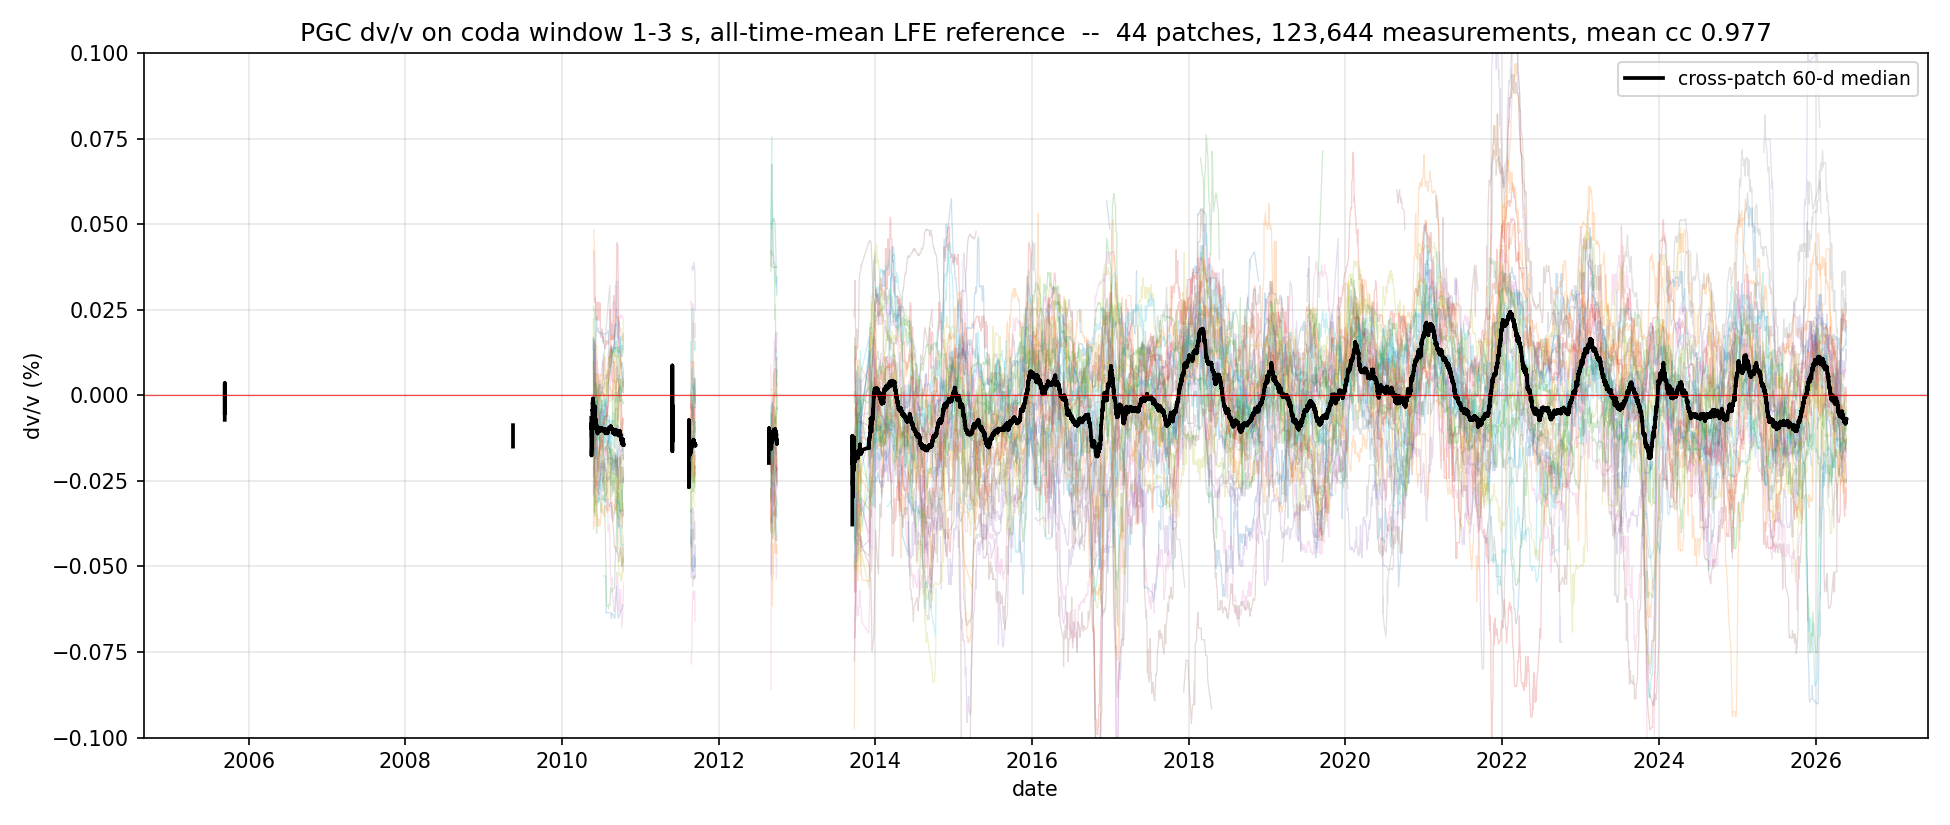
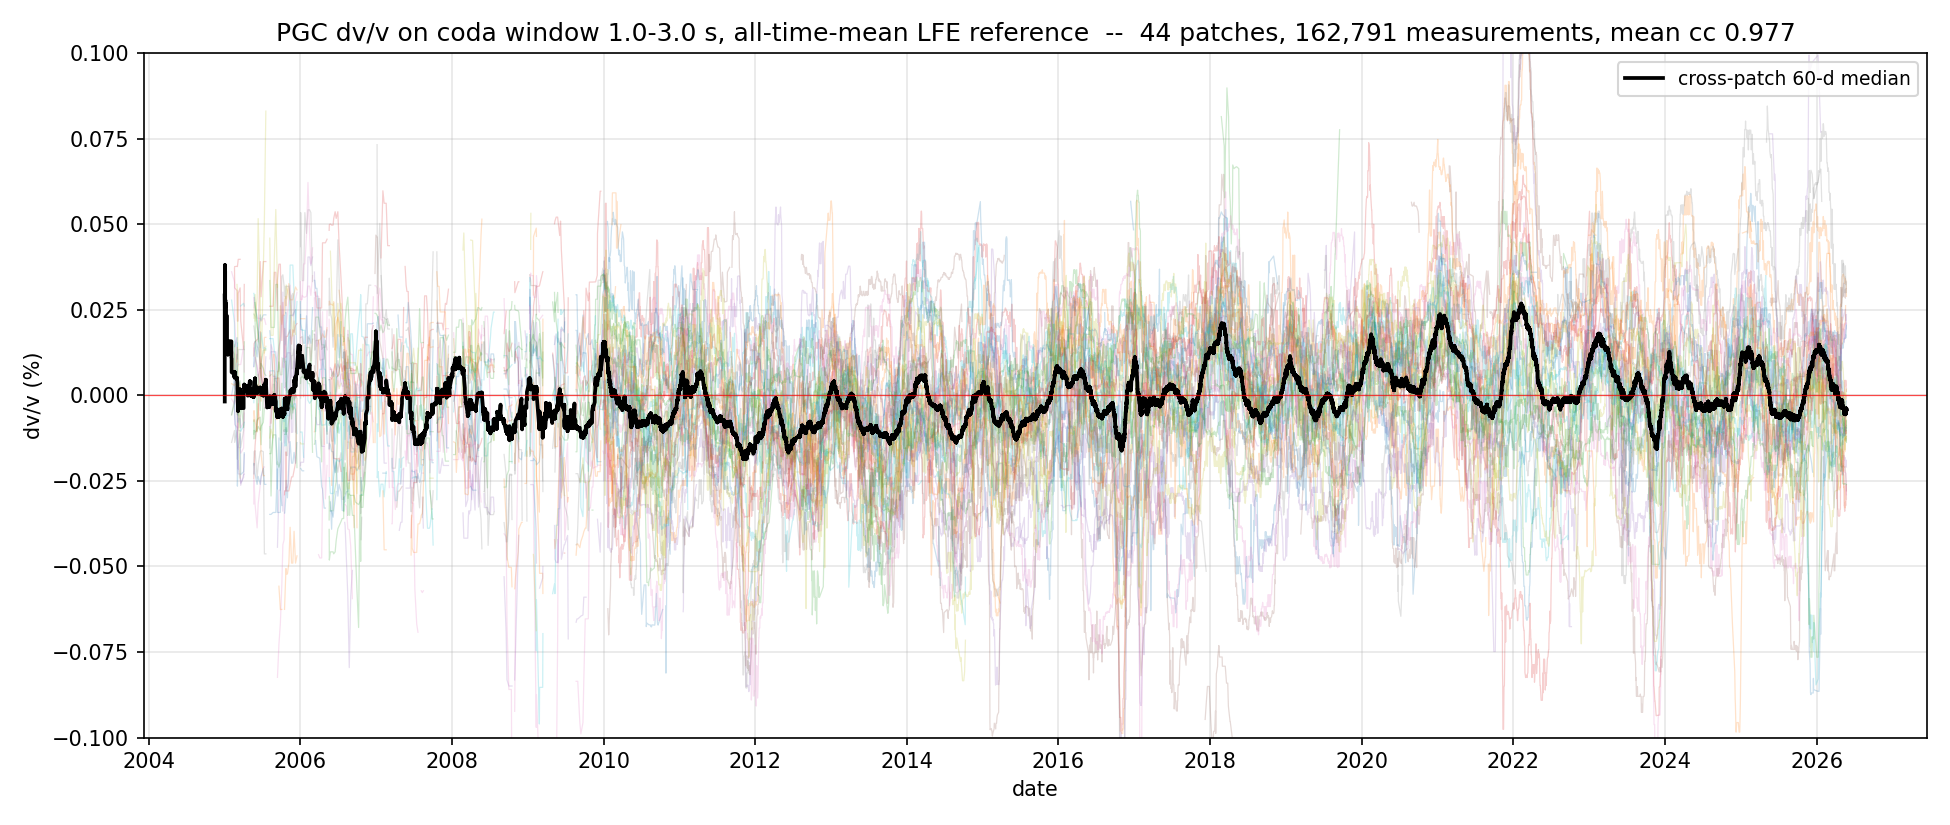
PGC backfill folded into 51-patch coda dv/v product
Re-ran the matched filter on the 1,460 newly-backfilled PGC day-files
(scripts/scan_new_days_all51.py: diff disk-days against existing MF
catalog, run all 51 templates on just the new days, filter to
cc>=0.8). Concatenated to the cc>=0.8 catalog -> 15.76M detections.

Rebuilt long-window daily stacks -> 164,229 (template, day) rows
(+31% over the pre-backfill 125,066). Recomputed coda 1-3 s dv/v with
the all-time-mean LFE reference per family.

Final canonical PGC product:
  162,791 daily dv/v measurements across 49 patches (was 123,644).
  Date range now CONTINUOUS 2005-2026, not gappy pre-2014.
  Mean stretching CC 0.977.
  Median dv/v -0.001%, 5-95%ile -0.088 / +0.079% (symmetric).
  Cross-patch 60-d median oscillates inside +/-0.05% throughout,
  including pre-2010 (noisier due to sparse NRCAN coverage ~60 days/yr).

Bug-fix in scan_new_days_all51.py: patch_templates.npz stores BOTH
PGC_* and LZB_* templates (35 each, for two-station discovery).
The first run loaded all of them, scanning the new PGC waveforms with
LZB templates too -- producing 1.6M spurious "detections" that had to
be filtered out before the rebuild. Script now whitelists templates
that start with the target station name.

diff --git a/scripts/scan_new_days_all51.py b/scripts/scan_new_days_all51.py
@@ -1,0 +1,119 @@
+"""Matched-filter scan of newly-backfilled PGC day-files only.
+
+After the 2005-2013 backfill we have ~1,800 new day-files that have not
+been scanned. Diff the on-disk day-list against the existing detections
+in mf_pgc_all51_cc08.csv, run the multi-template fast matched filter
+across all 51 templates on just the new days, filter to cc in [0.8, 1.1],
+and append.
+"""
+
+from __future__ import annotations
+
+import argparse
+from datetime import datetime, timedelta
+from pathlib import Path
+
+import numpy as np
+import pandas as pd
+
+import sys
+sys.path.insert(0, "src")
+from tremorferometry.matched_filter_fast import scan_many_days_multi  # noqa: E402
+
+
+def parse_args():
+    p = argparse.ArgumentParser()
+    p.add_argument("--wfdir", default="data/waveforms")
+    p.add_argument("--station", default="PGC")
+    p.add_argument("--orig-npz", default="data/patch_templates.npz")
+    p.add_argument("--strict-npz", default="data/strict_new_templates.npz")
+    p.add_argument("--existing-csv", default="data/mf_pgc_all51_cc08.csv")
+    p.add_argument("--out-csv", default="data/mf_pgc_new_days.csv")
+    p.add_argument("--combined-csv", default="data/mf_pgc_all51_cc08.csv")
+    p.add_argument("--threshold", type=float, default=0.7)
+    p.add_argument("--cc-keep-lo", type=float, default=0.8)
+    p.add_argument("--cc-keep-hi", type=float, default=1.1)
+    p.add_argument("--workers", type=int, default=36)
+    return p.parse_args()
+
+
+def main():
+    args = parse_args()
+
+    print("[1/5] Loading templates...")
+    orig = np.load(args.orig_npz, allow_pickle=True)
+    strict = np.load(args.strict_npz, allow_pickle=True)
+    templates: dict[str, np.ndarray] = {}
+    # patch_templates.npz contains BOTH PGC_* and LZB_* templates (35 each, for
+    # two-station discovery). For a PGC scan, only the PGC_* templates are
+    # physically meaningful -- LZB templates against PGC waveforms produce
+    # spurious detections we'd have to filter out downstream.
+    for k in orig.keys():
+        if not str(k).startswith(f"{args.station}_"):
+            continue
+        templates[k] = np.asarray(orig[k], dtype=np.float32)
+    for k in strict.keys():
+        if str(k).startswith("STRICT"):
+            templates[k] = np.asarray(strict[k], dtype=np.float32)
+    print(f"  {len(templates)} templates total ({sum(1 for k in templates if not k.startswith('STRICT'))} {args.station} + "
+          f"{sum(1 for k in templates if k.startswith('STRICT'))} strict)")
+
+    print("[2/5] Enumerating on-disk day-files...")
+    wfdir = Path(args.wfdir) / f"CN.{args.station}"
+    disk_days: set[datetime] = set()
+    for ypath in sorted(wfdir.glob("[0-9]*")):
+        try:
+            year = int(ypath.name)
+        except ValueError:
+            continue
+        for mfile in sorted(ypath.glob("*.mseed")):
+            try:
+                jday = int(mfile.stem)
+            except ValueError:
+                continue
+            disk_days.add(datetime(year, 1, 1) + timedelta(days=jday - 1))
+    print(f"  {len(disk_days)} day-files on disk")
+
+    print("[3/5] Finding days already scanned...")
+    exist = pd.read_csv(args.existing_csv, usecols=["time"])
+    exist["time"] = pd.to_datetime(exist["time"], format="mixed")
+    scanned_days = set(exist["time"].dt.normalize().dt.to_pydatetime())
+    print(f"  {len(scanned_days)} scanned days in existing CSV")
+
+    new_days = sorted(disk_days - scanned_days)
+    print(f"  {len(new_days)} NEW days to scan")
+    if not new_days:
+        print("  nothing to do.")
+        return
+
+    print(f"[4/5] Scanning {len(new_days)} days x {len(templates)} templates "
+          f"(workers={args.workers})...")
+    df = scan_many_days_multi(
+        waveform_root=Path(args.wfdir),
+        station=args.station,
+        days=new_days,
+        templates=templates,
+        fs=40.0,
+        bandpass=(2.0, 8.0),
+        threshold=args.threshold,
+        min_gap_s=6.0,
+        n_workers=args.workers,
+        progress_every=200,
+    )
+    print(f"  {len(df):,} raw detections at cc>={args.threshold}")
+    df.to_csv(args.out_csv, index=False)
+    print(f"  saved raw {args.out_csv}")
+
+    print("[5/5] Filter to cc in [0.8, 1.1] and append to combined CSV...")
+    keep = df[(df["cc"] >= args.cc_keep_lo) & (df["cc"] <= args.cc_keep_hi)]
+    print(f"  keep: {len(keep):,} at cc in [{args.cc_keep_lo}, {args.cc_keep_hi}]")
+
+    existing = pd.read_csv(args.combined_csv)
+    combined = pd.concat([existing, keep], ignore_index=True)
+    combined.to_csv(args.combined_csv, index=False)
+    print(f"  combined: {len(combined):,} rows in {args.combined_csv}")
+    print("done")
+
+
+if __name__ == "__main__":
+    main()
